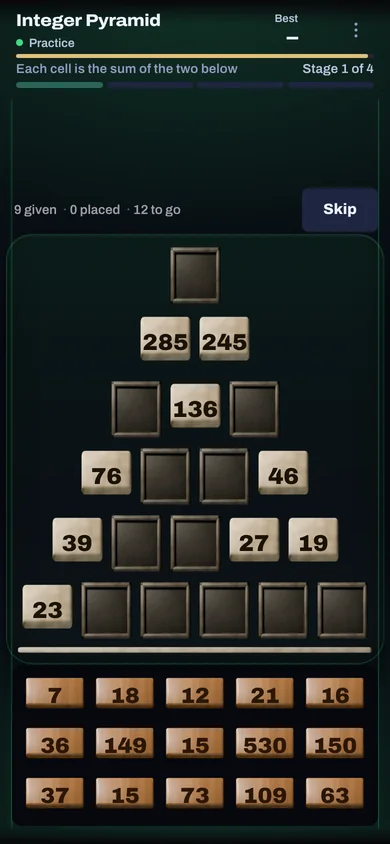
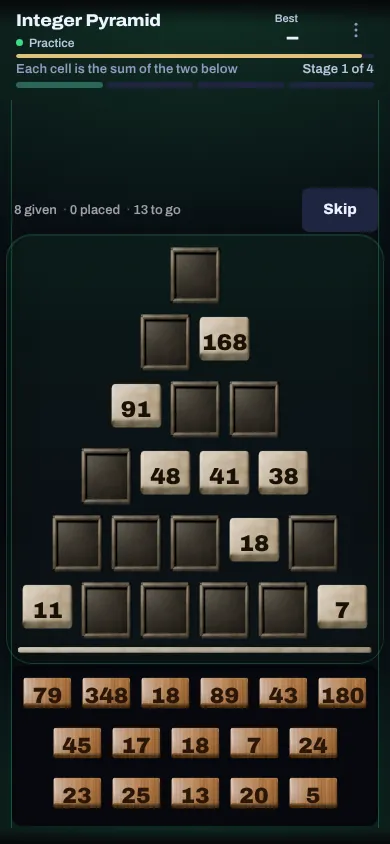
Number overhaul stage 3: level gallery
Claude-Session: https://claude.ai/code/session_011WK1FfecY6GY7JmXnDQco7

diff --git a/docs/design/pages-review/number/GALLERY.md b/docs/design/pages-review/number/GALLERY.md
@@ -70,4 +70,16 @@ tray in balanced rows. Operator's and Integer Pyramid's live effects:
 
 ## Stage 3: levels
 
-To come once the level registry is on main.
+Each game's live round at each level, practice at 390 × 844, a few seconds in. Today's game is Hard for Counterweight,
+Brimful, Checkout and Kakuro (Normal is a new, gentler deal on a new stamp) and Normal for the other four.
+
+| Game | Easy | Normal | Hard | Expert |
+|---|---|---|---|---|
+| Counterweight | <img src="img/balance-easy.webp" width="120" alt="Counterweight easy"> | <img src="img/balance-normal.webp" width="120" alt="Counterweight normal"> | <img src="img/balance-hard.webp" width="120" alt="Counterweight hard"> | <img src="img/balance-expert.webp" width="120" alt="Counterweight expert"> |
+| Exact | <img src="img/target-easy.webp" width="120" alt="Exact easy"> | <img src="img/target-normal.webp" width="120" alt="Exact normal"> | <img src="img/target-hard.webp" width="120" alt="Exact hard"> | <img src="img/target-expert.webp" width="120" alt="Exact expert"> |
+| Operator | <img src="img/equation-easy.webp" width="120" alt="Operator easy"> | <img src="img/equation-normal.webp" width="120" alt="Operator normal"> | <img src="img/equation-hard.webp" width="120" alt="Operator hard"> | <img src="img/equation-expert.webp" width="120" alt="Operator expert"> |
+| Integer Pyramid | <img src="img/numpyramid-easy.webp" width="120" alt="Integer Pyramid easy"> | <img src="img/numpyramid-normal.webp" width="120" alt="Integer Pyramid normal"> | <img src="img/numpyramid-hard.webp" width="120" alt="Integer Pyramid hard"> | <img src="img/numpyramid-expert.webp" width="120" alt="Integer Pyramid expert"> |
+| Brimful | <img src="img/measure-easy.webp" width="120" alt="Brimful easy"> | <img src="img/measure-normal.webp" width="120" alt="Brimful normal"> | <img src="img/measure-hard.webp" width="120" alt="Brimful hard"> | <img src="img/measure-expert.webp" width="120" alt="Brimful expert"> |
+| Checkout | <img src="img/checkout-easy.webp" width="120" alt="Checkout easy"> | <img src="img/checkout-normal.webp" width="120" alt="Checkout normal"> | <img src="img/checkout-hard.webp" width="120" alt="Checkout hard"> | <img src="img/checkout-expert.webp" width="120" alt="Checkout expert"> |
+| Ballpark | <img src="img/numline-easy.webp" width="120" alt="Ballpark easy"> | <img src="img/numline-normal.webp" width="120" alt="Ballpark normal"> | <img src="img/numline-hard.webp" width="120" alt="Ballpark hard"> | <img src="img/numline-expert.webp" width="120" alt="Ballpark expert"> |
+| Kakuro | <img src="img/kakuro-easy.webp" width="120" alt="Kakuro easy"> | <img src="img/kakuro-normal.webp" width="120" alt="Kakuro normal"> | <img src="img/kakuro-hard.webp" width="120" alt="Kakuro hard"> | <img src="img/kakuro-expert.webp" width="120" alt="Kakuro expert"> |
